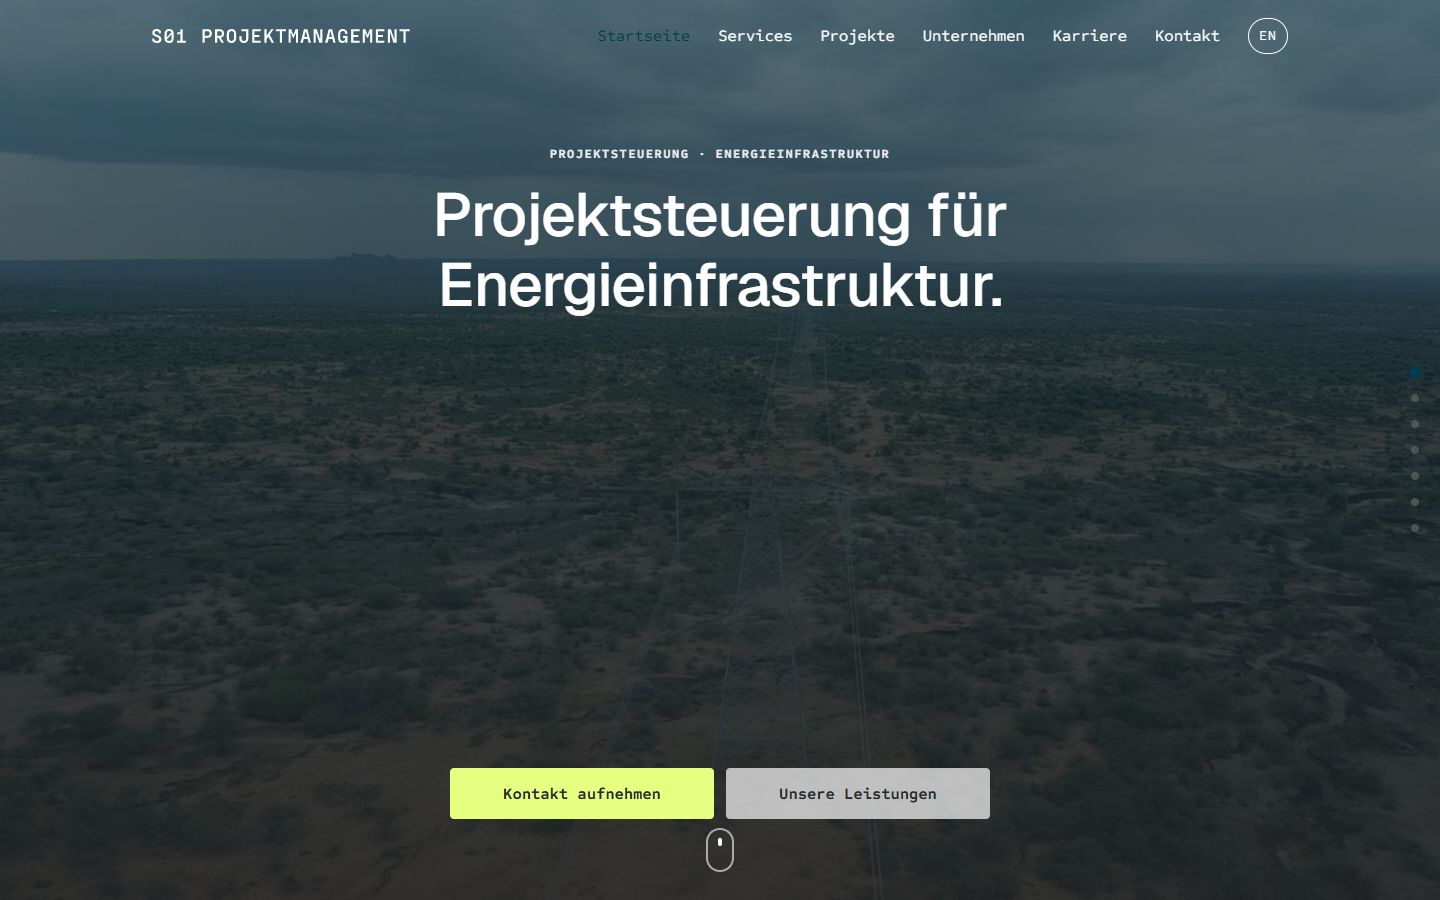
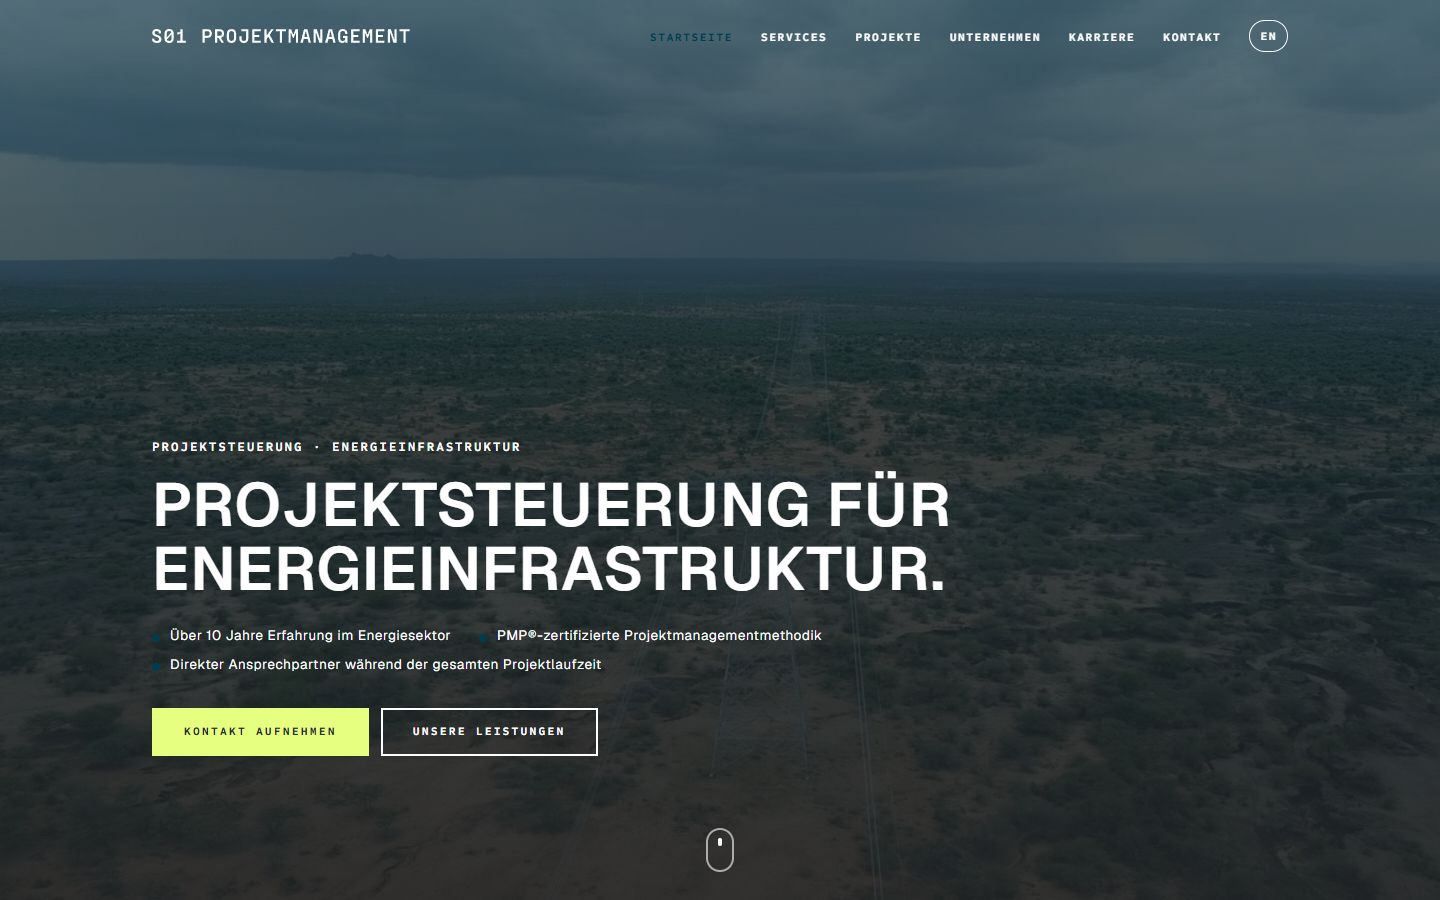
SpaceX, not Tesla: restore the SpaceX replica as demo 01, add a mission-page variant as demo 02, SpaceX opening for the hybrid
The supervisor wanted spacex.com as the first reference. 01-spacex-stack is the earlier replica (panel stack, bottom-left uppercase copy, auto-hiding header); 02-spacex-mission is a charcoal variant in the style of the SpaceX mission pages (single video hero, uppercase headings, big key figures, numbered services, mission timeline); 05-hybrid opens like SpaceX above the Arup editorial sections. Tesla demos removed; the tesla hero variant remains in the kit, tested. Tests 116, checker 81 files, contrast pairs and layout measurements clean.

Claude-Session: https://claude.ai/code/session_01MvgPpcENZGA6QrERHRxL79

diff --git a/demos/01-spacex-stack/theme.css b/demos/01-spacex-stack/theme.css
@@ -1,0 +1,48 @@
+:root {
+  --bg: #003c50;
+  --fg: #f6f6f6;
+  --muted: #b7cdd4;
+  --surface: #0a3242;
+  --surface-2: #1a4e60;
+  --border: #2f6072;
+  --accent: #b7cdd4;
+  --accent-fg: #262c30;
+  --accent-2: #8fb2be;
+  --hero-fg: #ffffff;
+  --hero-overlay: linear-gradient(180deg, rgba(0, 60, 80, 0.35), rgba(0, 60, 80, 0.8));
+  --radius: 0px;
+  --radius-lg: 0px;
+  --shadow: none;
+  --font-heading: "Geist", "Aptos", system-ui, sans-serif;
+  --font-body: "Geist", "Aptos", system-ui, sans-serif;
+  --h1: clamp(1.7rem, 4.2vw, 3.6rem);
+  --h2: clamp(1.6rem, 3.2vw, 2.6rem);
+}
+/* Stylesheet: Fraktion Mono for labels and functional elements, here its Google fallback Sometype Mono */
+.eyebrow, .hero-eyebrow, .panel-label, .site-nav a, .lang-toggle, .btn, .breadcrumb, .label, .num, .footer-copy, .stat-label, .site-footer, .demo-badge-wrap { font-family: "Sometype Mono", ui-monospace, monospace; }
+h1, h2, h3 { font-weight: 600; letter-spacing: -0.01em; }
+.hero-title, .panel-title { text-transform: uppercase; letter-spacing: 0.02em; line-height: 1.05; }
+.hero-eyebrow, .panel-label, .eyebrow { font-weight: 700; letter-spacing: 0.16em; font-size: 0.8rem; opacity: 1; }
+.hero-content, .panel-content { padding-bottom: 18vh; }
+.hero .scroll-cue { bottom: 36px; }
+/* Navigation: logo left, uppercase mono links right, hides while scrolling down, teal veil when scrolled up */
+.site-nav a { text-transform: uppercase; letter-spacing: 0.14em; font-size: 0.72rem; font-weight: 700; }
+.nav-transparent.is-scrolled { background: linear-gradient(180deg, rgba(0, 60, 80, 0.92), rgba(0, 60, 80, 0.6)); color: #ffffff; }
+.lang-toggle { border-radius: 0; letter-spacing: 0.14em; font-size: 0.72rem; }
+/* Buttons: squared, uppercase mono, white outline; the hero keeps the one Lime primary */
+.btn { border-radius: 0; text-transform: uppercase; letter-spacing: 0.2em; font-size: 0.72rem; font-weight: 700; padding: 15px 30px; border-width: 2px; }
+.btn-ghost { border-color: rgba(255, 255, 255, 0.85); color: #ffffff; background: transparent; }
+.btn-ghost:hover { background: #ffffff; color: #003c50; border-color: #ffffff; }
+.hero .btn-ghost, .panel .btn-ghost { border-color: #ffffff; }
+/* Home: panels snap gently like spacex.com */
+html:has(body.hero-spacex-layout.page-home) { scroll-snap-type: y proximity; }
+body.hero-spacex-layout.page-home .hero, body.hero-spacex-layout.page-home .panel { scroll-snap-align: start; }
+/* Inner pages */
+.page-hero { background: var(--surface); }
+.card, .stat, .form, .step, .feature .pillar, .culture .pillar { background: var(--surface); border-color: var(--border); }
+.num-item { border-color: var(--border); }
+.cta-box { background: var(--surface-2); color: #ffffff; }
+.site-footer { background: #0a3242; border-top: 1px solid var(--border); text-align: center; font-size: 0.75rem; text-transform: uppercase; letter-spacing: 0.12em; }
+.site-footer a { color: var(--muted); }
+.form input:not([type="checkbox"]), .form textarea { background: #003c50; border-color: var(--border); color: var(--fg); }
+@media (max-width: 639px) { .hero-title, .panel-title { text-transform: none; letter-spacing: -0.01em; } }

diff --git a/demos/05-hybrid/theme.css b/demos/05-hybrid/theme.css
@@ -20,13 +20,13 @@
 }
 .eyebrow, .hero-eyebrow, .panel-label, .site-nav a, .lang-toggle, .btn, .breadcrumb, .label, .num, .footer-copy, .stat-label, .demo-badge-wrap { font-family: "Sometype Mono", ui-monospace, monospace; }
 h1, h2, h3 { font-weight: 500; letter-spacing: -0.015em; }
-.hero-snap-stack { justify-content: flex-start; align-items: stretch; }
-.hero-snap-stack .hero-content { text-align: center; margin-inline: auto; align-self: stretch; flex: 1 1 auto; width: 100%; display: flex; flex-direction: column; align-items: center; padding-top: calc(var(--nav-h) + 72px); padding-bottom: 0; }
-.hero-snap-stack .hero-title { margin-inline: auto; max-width: 20ch; }
-.hero-snap-stack .hero-eyebrow { text-transform: uppercase; letter-spacing: 0.12em; font-size: 0.78rem; }
-.hero-snap-stack .hero-actions { position: absolute; left: 0; right: 0; bottom: 9vh; z-index: 1; justify-content: center; padding-inline: var(--gutter); }
-.hero-snap-stack .btn { min-width: min(264px, 100%); justify-content: center; text-align: center; }
-.hero .btn-ghost { background: rgba(246, 246, 246, 0.72); color: #262c30; border-color: transparent; }
+.hero-title { text-transform: uppercase; letter-spacing: 0.02em; line-height: 1.05; font-weight: 600; max-width: 20ch; }
+.hero-eyebrow { text-transform: uppercase; letter-spacing: 0.16em; font-size: 0.8rem; font-weight: 700; opacity: 1; }
+.hero-content { padding-bottom: 16vh; }
+.hero-bullets { font-size: 0.85rem; letter-spacing: 0.04em; }
+.site-nav a { text-transform: uppercase; letter-spacing: 0.14em; font-size: 0.72rem; font-weight: 700; }
+.hero .btn { border-radius: 0; text-transform: uppercase; letter-spacing: 0.2em; font-size: 0.72rem; font-weight: 700; padding: 15px 30px; border-width: 2px; }
+.hero .btn-ghost { border-color: #ffffff; color: #ffffff; background: transparent; }
 .hero .btn-ghost:hover { background: #ffffff; color: #003c50; }
 .nav-transparent.is-scrolled { background: rgba(255, 255, 255, 0.96); color: var(--fg); }
 .eyebrow { text-transform: none; letter-spacing: 0.04em; font-size: 0.8rem; }
@@ -37,8 +37,7 @@ h1, h2, h3 { font-weight: 500; letter-spacing: -0.015em; }
 .link-more::after { content: " \2192"; }
 .project-card { border: 0; border-top: 1px solid var(--border); background: transparent; padding-inline: 0; }
 .feature .pillar { border: 0; background: transparent; border-top: 2px solid var(--accent); border-radius: 0; padding-inline: 0; }
-.snap-dots a.is-active span { background: var(--accent); }
 .site-footer { background: var(--fg); color: #ffffff; border-top: 0; }
 .site-footer a, .site-footer .footer-copy, .site-footer .logo { color: #ffffff; }
 .site-footer .iso-badge { border-color: var(--accent-2); color: var(--accent-2); }
-@media (max-width: 639px) { .hero-snap-stack .hero-actions { flex-direction: column; align-items: center; } }
+@media (max-width: 639px) { .hero-title { text-transform: none; letter-spacing: -0.01em; } }

diff --git a/tests/check.test.js b/tests/check.test.js
@@ -87,8 +87,8 @@ test('checkDist reports realistic damage with file names', { skip: !haveAssets &
   const out = mkdtempSync(join(tmpdir(), 's01-dist-damaged-'));
   t.after(() => rmSync(out, { recursive: true, force: true }));
   build({ root: ROOT, out });
-  unlinkSync(join(out, '01-tesla-stack/de/karriere.html'));
-  const projekte = join(out, '01-tesla-stack/de/projekte.html');
+  unlinkSync(join(out, '01-spacex-stack/de/karriere.html'));
+  const projekte = join(out, '01-spacex-stack/de/projekte.html');
   let html = readFileSync(projekte, 'utf8');
   html = html.replace(/<li><a href="unternehmen\.html"[^<]*<\/a><\/li>/, '');
   html = html.replace(/<a class="lang-toggle"[^>]*>[^<]*<\/a>/, '');
@@ -98,11 +98,11 @@ test('checkDist reports realistic damage with file names', { skip: !haveAssets &
   writeFileSync(gallery, readFileSync(gallery, 'utf8').replace('</header>', '<p>undefined</p></header>'));
   const { errors } = checkDist({ out, root: ROOT });
   const expect = (re) => assert.ok(errors.some((e) => re.test(e)), `expected ${re} in:\n${errors.join('\n')}`);
-  expect(/01-tesla-stack\/de\/karriere\.html: file missing/);
-  expect(/01-tesla-stack\/de\/index\.html: broken link karriere\.html/);
-  expect(/01-tesla-stack\/de\/projekte\.html: nav link to company \(unternehmen\.html\) missing/);
-  expect(/01-tesla-stack\/de\/projekte\.html: language toggle missing/);
-  expect(/01-tesla-stack\/de\/projekte\.html: link leaves dist \.\.\/\.\.\/\.\.\/kit\/base\.css/);
+  expect(/01-spacex-stack\/de\/karriere\.html: file missing/);
+  expect(/01-spacex-stack\/de\/index\.html: broken link karriere\.html/);
+  expect(/01-spacex-stack\/de\/projekte\.html: nav link to company \(unternehmen\.html\) missing/);
+  expect(/01-spacex-stack\/de\/projekte\.html: language toggle missing/);
+  expect(/01-spacex-stack\/de\/projekte\.html: link leaves dist \.\.\/\.\.\/\.\.\/kit\/base\.css/);
   expect(/index\.html: contains "undefined"/);
   assert.equal(new Set(errors).size, errors.length, 'errors are deduplicated');
 });
@@ -114,10 +114,10 @@ test('the CLI exits 1 with the errors on stderr and 0 with an OK line otherwise'
   const ok = spawnSync(process.execPath, [join(ROOT, 'build/check.js'), out, ROOT], { encoding: 'utf8' });
   assert.equal(ok.status, 0, ok.stderr);
   assert.match(ok.stdout, /^OK: \d+ files checked, no problems/);
-  unlinkSync(join(out, '02-tesla-light/en/contact.html'));
+  unlinkSync(join(out, '02-spacex-mission/en/contact.html'));
   const bad = spawnSync(process.execPath, [join(ROOT, 'build/check.js'), out, ROOT], { encoding: 'utf8' });
   assert.equal(bad.status, 1);
   assert.equal(bad.stdout, '');
-  assert.match(bad.stderr, /02-tesla-light\/en\/contact\.html: file missing/);
+  assert.match(bad.stderr, /02-spacex-mission\/en\/contact\.html: file missing/);
   assert.match(bad.stderr, /\d+ problem\(s\) found in \d+ files/);
 });

diff --git a/demos/02-spacex-mission/theme.css b/demos/02-spacex-mission/theme.css
@@ -1,0 +1,45 @@
+:root {
+  --bg: #262c30;
+  --fg: #f6f6f6;
+  --muted: #b7cdd4;
+  --surface: #30383e;
+  --surface-2: #3a434a;
+  --border: #46525a;
+  --accent: #b7cdd4;
+  --accent-fg: #262c30;
+  --accent-2: #8fb2be;
+  --hero-fg: #ffffff;
+  --hero-overlay: linear-gradient(180deg, rgba(38, 44, 48, 0.3), rgba(38, 44, 48, 0.85));
+  --radius: 0px;
+  --radius-lg: 0px;
+  --shadow: none;
+  --font-heading: "Geist", "Aptos", system-ui, sans-serif;
+  --font-body: "Geist", "Aptos", system-ui, sans-serif;
+  --h1: clamp(1.7rem, 4.2vw, 3.6rem);
+  --h2: clamp(1.5rem, 3vw, 2.4rem);
+}
+.eyebrow, .hero-eyebrow, .panel-label, .site-nav a, .lang-toggle, .btn, .breadcrumb, .label, .num, .footer-copy, .stat-label, .demo-badge-wrap { font-family: "Sometype Mono", ui-monospace, monospace; }
+h1, h2, h3 { font-weight: 600; letter-spacing: -0.01em; }
+.hero-title, h2 { text-transform: uppercase; letter-spacing: 0.02em; line-height: 1.05; }
+.hero-eyebrow, .eyebrow { font-weight: 700; letter-spacing: 0.16em; font-size: 0.8rem; opacity: 1; }
+.hero-content { padding-bottom: 18vh; }
+.hero-bullets { font-size: 0.85rem; letter-spacing: 0.04em; }
+.site-nav a { text-transform: uppercase; letter-spacing: 0.14em; font-size: 0.72rem; font-weight: 700; }
+.nav-transparent.is-scrolled { background: linear-gradient(180deg, rgba(38, 44, 48, 0.94), rgba(38, 44, 48, 0.6)); color: #ffffff; }
+.lang-toggle { border-radius: 0; letter-spacing: 0.14em; font-size: 0.72rem; }
+.btn { border-radius: 0; text-transform: uppercase; letter-spacing: 0.2em; font-size: 0.72rem; font-weight: 700; padding: 15px 30px; border-width: 2px; }
+.btn-ghost { border-color: rgba(255, 255, 255, 0.85); color: #ffffff; background: transparent; }
+.btn-ghost:hover { background: #ffffff; color: #262c30; border-color: #ffffff; }
+.stat-value { font-size: clamp(2.8rem, 6vw, 5rem); font-weight: 600; letter-spacing: -0.02em; color: #ffffff; }
+.stat { border: 0; border-top: 2px solid var(--accent-2); background: transparent; border-radius: 0; padding-inline: 0; }
+.num-item { border-color: var(--border); }
+.num-item .num { color: var(--accent-2); }
+.tl-marker { background: var(--accent-2); color: #262c30; }
+.tl::before { background: var(--border); }
+.page-hero { background: var(--surface); }
+.card, .form, .step, .feature .pillar, .culture .pillar { background: var(--surface); border-color: var(--border); }
+.cta-box { background: #003c50; color: #ffffff; }
+.site-footer { background: #1f2428; border-top: 1px solid var(--border); text-align: center; font-size: 0.75rem; text-transform: uppercase; letter-spacing: 0.12em; }
+.site-footer a { color: var(--muted); }
+.form input:not([type="checkbox"]), .form textarea { background: #262c30; border-color: var(--border); color: var(--fg); }
+@media (max-width: 639px) { .hero-title, h2 { text-transform: none; letter-spacing: -0.01em; } }

diff --git a/tests/build.test.js b/tests/build.test.js
@@ -36,11 +36,11 @@ test('build writes all demos, languages, pages and shared files', { skip: !haveA
   assert.ok(existsSync(join(out, 'kit/base.js')));
   assert.ok(existsSync(join(out, 'assets/video/trailer.mp4')));
   assert.ok(!existsSync(join(out, 'assets/sources.json')));
-  assert.ok(existsSync(join(out, '01-tesla-stack/theme.css')));
-  for (const f of ['index.html', 'services.html', 'projekte.html', 'unternehmen.html', 'karriere.html', 'kontakt.html', 'impressum.html', 'datenschutz.html']) assert.ok(existsSync(join(out, '01-tesla-stack/de', f)), f);
-  for (const f of ['index.html', 'services.html', 'projects.html', 'company.html', 'careers.html', 'contact.html', 'imprint.html', 'privacy.html']) assert.ok(existsSync(join(out, '02-tesla-light/en', f)), f);
+  assert.ok(existsSync(join(out, '01-spacex-stack/theme.css')));
+  for (const f of ['index.html', 'services.html', 'projekte.html', 'unternehmen.html', 'karriere.html', 'kontakt.html', 'impressum.html', 'datenschutz.html']) assert.ok(existsSync(join(out, '01-spacex-stack/de', f)), f);
+  for (const f of ['index.html', 'services.html', 'projects.html', 'company.html', 'careers.html', 'contact.html', 'imprint.html', 'privacy.html']) assert.ok(existsSync(join(out, '02-spacex-mission/en', f)), f);
   const home = readFileSync(join(out, '05-hybrid/de/index.html'), 'utf8');
-  assert.ok(home.includes('class="site-header nav-transparent"'));
+  assert.ok(home.includes('class="site-header nav-transparent nav-spacex nav-autohide"'));
   assert.ok(home.includes('Demo 05/'));
   assert.ok(home.includes('../../assets/video/powerlines.mp4'));
 });

diff --git a/docs/superpowers/specs/2026-10-08-s01-demos-design.md b/docs/superpowers/specs/2026-10-08-s01-demos-design.md
@@ -362,3 +362,7 @@ The user replaced the 25 demos with five, all in the corporate colors and the st
 | 05 | hybrid | both | Tesla-like snapping full-screen video opening with dot navigation and bottom buttons, then Arup-like editorial sections with image teasers and project cards. |
 
 Kit additions: hero variants `tesla` and `editorial` (`kit/components/hero.js`, `kit/base.css`), the home page renders panels only for `tesla` and `spacex` heroes (`kit/pages.js`). Tests: `tests/tesla.test.js`, `tests/arup.test.js`; the build and checker tests name the new demo ids.
+
+### 17a. Correction (2026-10-22): SpaceX instead of Tesla
+
+The supervisor wanted spacex.com, not tesla.com, as the first reference. Demos 01 and 02 are therefore `01-spacex-stack` (the SpaceX replica of section 16, restored: hero variant `spacex`, nav `spacex`) and `02-spacex-mission` (SpaceX mission-page style on charcoal: nav `spacex`, single full-screen video hero with uppercase headline, big key figures, numbered services, projects as a timeline). `05-hybrid` now opens SpaceX-style (nav `spacex`, hero `bottom-left` with uppercase headline) above the Arup editorial sections. The `tesla` hero variant stays in the kit, unused and tested.
